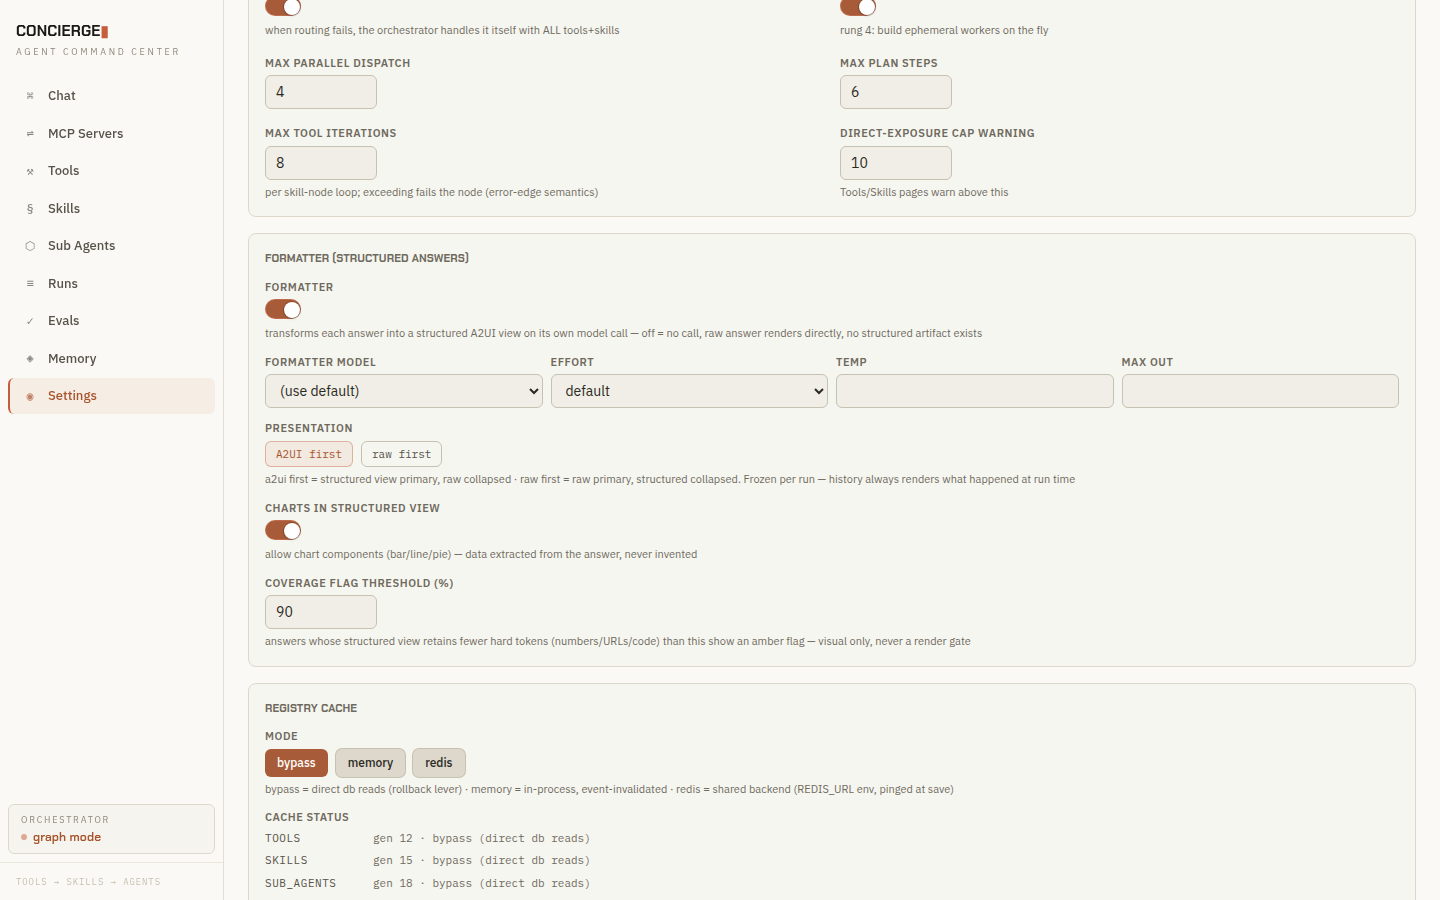
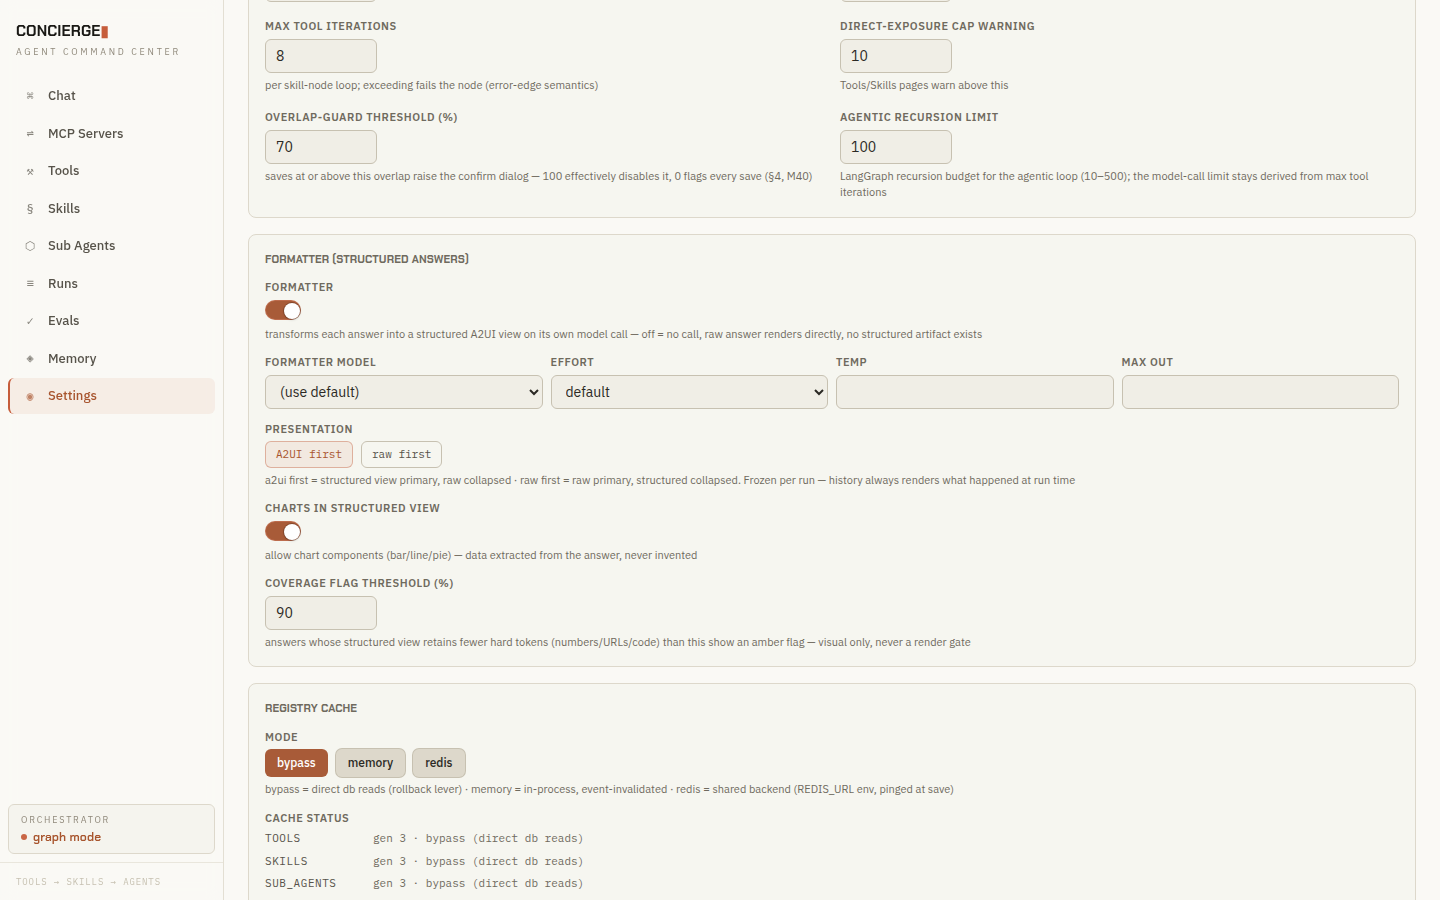
docs(acceptance): stage 28 — M40 config-hardening evidence (spec §14e-41..44)
Live on the rebuilt images, anthropic theme, qwen3.8-max all roles:
per-chat pin proven end-to-end (A direct / B graph / A direct+ctx in the
run list), Settings completeness with live nav toggling and the inline
422, the tick-bounded poll-interval throttle (parked across 2+ ticks at
interval 3600, settled next tick at 1), the overlap dialog at threshold
10, and the AUTH_ENABLED 429-boundary transcript (5→429 at burst 5, 8×200
at 120). Byte-identity: fresh boot shows every M40 key at its promoted
default. The settings frames whose visible region grew the new sections
were recaptured in place (changelog in report.md); the stage-26 frame
whose claim inverted is renamed 00-settings-ambient-section.png. README
status + M40 milestone row updated.

Claude-Session: https://claude.ai/code/session_01HZp9NtKPxvkd279oJnFx37

diff --git a/README.md b/README.md
@@ -4,7 +4,7 @@ A registry-driven, tri-layer agentic orchestration POC: **Tools → Skills → S
 
 **Goal**: plug an MCP server from the UI after startup, compose a skill from its tools, compose a sub agent from skills with a branching DAG workflow, and invoke it through chat with a visible run trace — without restarting the app. The complete definition of done is the 11-step acceptance script in [spec.md §14](./spec.md).
 
-> **Status: all milestones complete (M1–M39).** The core POC (M1–M6) plus the memory (M13–M18), ambient (M20–M25), completeness/hardening (M26–M35), and A2A (M37–M39) waves are done, and the **M36 full acceptance ceremony (spec §18.10) passed on a fresh `docker compose up`**: all eleven §14 steps, the §14c ambient UI + decision-plane additions, a live custom-gateway smoke, and the §11 byte-identity suites — evidence in [docs/acceptance/ceremony_m36/](./docs/acceptance/ceremony_m36/report.md). Backend + admin UI live; full backend suite **691 passed, 1 skipped**. Full manual-UI acceptance evidence — including the original single-pass Sonnet-5 campaign covering both orchestrator modes × thinking on/off, all four themes, HITL approve/deny/queue, failure/retry, and every admin surface — lives in [docs/acceptance/](./docs/acceptance/README.md). A fresh 1:1 parity re-run of that whole campaign on real `qwen3.8-max`, plus new full lifecycle sweeps of Memory (§16) and Ambient (§17/§18/§8.9), lives in [docs/acceptance/report-ambient.md](./docs/acceptance/report-ambient.md). The **A2A wave (M37–M39, spec §19)** — outbound remote-agent calls over the A2A protocol with card-driven auth, in-run HITL round-trips, untrusted-output fencing, and park→ambient-delivery for long-running remote tasks — is **complete**: 34 A2A tests green (full backend suite **724 passed, 1 skipped**) and the §14d steps 33–40 manual UI acceptance campaign passed live on real `qwen3.8-max` against five scripted counterparties — auth matrix (apiKey/bearer/oauth2 + env-indirection + unsupported-scheme), ExComm composition with fenced traces, HITL round-trips with counterparty-side cancel proofs, Stop propagation, park→leader-tick→Inbox delivery with zero recheck runs, and live card drift — evidence in [docs/acceptance/a2a-14d/](./docs/acceptance/a2a-14d/report.md) (the campaign also caught and fixed two GraphInterrupt-swallowing defects; design notes in [docs/research/a2a/](./docs/research/a2a/README.md)). On top of that, a **complete 1:1 re-run of the entire acceptance campaign** — all 27 base stages at exact frame parity with the ambient campaign, both feature sweeps, and the full A2A stage, ~230 frames in the **anthropic theme** on real `qwen3.8-max` — lives in [docs/acceptance/report.md](./docs/acceptance/report.md); it caught two more real defects (a third interrupt-swallowing site on the inline skill rung, and OpenAI dropping function-tool support for gpt-4o on chat/completions), both fixed on the branch with regression tests. `spec.md` is the single source of truth; implementation proceeded milestone by milestone via spec-driven development (see `CLAUDE.md`).
+> **Status: all milestones complete (M1–M40).** M40 (config hardening + per-chat target pin) landed on top of the campaigns below: the composer pin is now per-conversation state, seven previously hardcoded runtime constants are live validated settings (byte-identical defaults, full backend suite **735 passed, 1 skipped**), the Settings page gained Ambient/A2A/API-guardrail sections, and the §14e steps 41–44 acceptance stage passed live (`docs/acceptance/28-config-hardening/`) — catching and fixing two silent-failure UI defects along the way. The core POC (M1–M6) plus the memory (M13–M18), ambient (M20–M25), completeness/hardening (M26–M35), and A2A (M37–M39) waves are done, and the **M36 full acceptance ceremony (spec §18.10) passed on a fresh `docker compose up`**: all eleven §14 steps, the §14c ambient UI + decision-plane additions, a live custom-gateway smoke, and the §11 byte-identity suites — evidence in [docs/acceptance/ceremony_m36/](./docs/acceptance/ceremony_m36/report.md). Backend + admin UI live; full backend suite **691 passed, 1 skipped**. Full manual-UI acceptance evidence — including the original single-pass Sonnet-5 campaign covering both orchestrator modes × thinking on/off, all four themes, HITL approve/deny/queue, failure/retry, and every admin surface — lives in [docs/acceptance/](./docs/acceptance/README.md). A fresh 1:1 parity re-run of that whole campaign on real `qwen3.8-max`, plus new full lifecycle sweeps of Memory (§16) and Ambient (§17/§18/§8.9), lives in [docs/acceptance/report-ambient.md](./docs/acceptance/report-ambient.md). The **A2A wave (M37–M39, spec §19)** — outbound remote-agent calls over the A2A protocol with card-driven auth, in-run HITL round-trips, untrusted-output fencing, and park→ambient-delivery for long-running remote tasks — is **complete**: 34 A2A tests green (full backend suite **724 passed, 1 skipped**) and the §14d steps 33–40 manual UI acceptance campaign passed live on real `qwen3.8-max` against five scripted counterparties — auth matrix (apiKey/bearer/oauth2 + env-indirection + unsupported-scheme), ExComm composition with fenced traces, HITL round-trips with counterparty-side cancel proofs, Stop propagation, park→leader-tick→Inbox delivery with zero recheck runs, and live card drift — evidence in [docs/acceptance/a2a-14d/](./docs/acceptance/a2a-14d/report.md) (the campaign also caught and fixed two GraphInterrupt-swallowing defects; design notes in [docs/research/a2a/](./docs/research/a2a/README.md)). On top of that, a **complete 1:1 re-run of the entire acceptance campaign** — all 27 base stages at exact frame parity with the ambient campaign, both feature sweeps, and the full A2A stage, ~230 frames in the **anthropic theme** on real `qwen3.8-max` — lives in [docs/acceptance/report.md](./docs/acceptance/report.md); it caught two more real defects (a third interrupt-swallowing site on the inline skill rung, and OpenAI dropping function-tool support for gpt-4o on chat/completions), both fixed on the branch with regression tests. `spec.md` is the single source of truth; implementation proceeded milestone by milestone via spec-driven development (see `CLAUDE.md`).
 
 ## Architecture at a glance
 
@@ -134,6 +134,7 @@ The **[docs/ index](./docs/README.md)** covers the whole suite. Highlights:
 | M26 | Ambient completeness pack (spec §18.1: per-routine `model_ref` honored end-to-end — explicit role models > routine override > default, proven live with a kimi-k3 routine on a qwen stack; near-due poller tightening; escalation budget on digest approvals; per-item anticipation deliveries; learner threshold recovery; independent multi-slot digest shifting; judge `usage_metadata` accounting — judge_live battery: 7 calls, 3,880 in / 1,609 out tokens at Set-F1 1.0) | ✅ complete |
 | M27 | Memory context pack (spec §18.2: routine `include_memories` — fires share ONE persistent conversation, proven live: Beat #2 quantified the delta vs Beat #1 on qwen3.8-max; `project` memory scope with key-partitioned recall/injection that never leaks across projects; the aggregator gains the §16.3 remembered-context block) | ✅ complete |
 | M28 | Real trigger sources (spec §18.3: parameterized contracts `fn(watermark, config)` / `fn(config)→float`; native `http_json`/`rss`/`mcp_tool` poll sources + `workspace_disk_pct`/`pending_hitl_count`/`runs_failed_last_hour` probes, boot-registered with config shapes the watch compiler lists; `WatchCompile` gains `poll_config`/`probe_config`; §14c-29 proven live end-to-end — qwen compiled an `http_json` watch over a real feed conversationally, the poller ingested a real item, the fire produced a run + tier-2 delivery; live proof also caught+fixed a real decide bug: poll-item filters now match item fields) | ✅ complete |
+| M40 | Config hardening + per-chat target pin (spec §3.7/§7.5/§8.7: the composer's direct-invocation pin — and its history-summary checkbox — became per-conversation state (a conversation-keyed map; `?target=` deep links pin only the chat they open, new chats always start at auto); `a2a_poll_interval_s` wired as a tick-bounded monotonic watermark in the parked-task poller (effective cadence `max(tick, interval)`); seven hardcoded constants promoted to live validated settings with defaults equal to the constants they replaced — `ambient_tick_interval_s`, `rate_limit_burst`/`rate_limit_per_s`, `overlap_threshold_percent`, `run_stall_after_s`, `agentic_recursion_limit`, `a2a_http_timeout_s`, `a2a_fence_max_chars` — plus `AUTH_SESSION_TTL_H` env; the Settings page gained Ambient (§17), A2A (§19), and API-guardrail sections with live nav toggling and per-control inline 422s; §14e steps 41–44 proven live (evidence in `docs/acceptance/28-config-hardening/`) with the affected settings frames surgically recaptured; the campaign also fixed two silent-failure UI defects — per-control settings 422s that never surfaced, and the skill editor's §4 overlap check 422ing invisibly on an extra payload field) | ✅ complete |
 | M39 | A2A long-running tasks (spec §19.6: budget expiry PARKS the remote task instead of erroring — ambient on, under `a2a_max_parked` (0 disables parking, timeout becomes a plain tool error) — and the run completes honestly with a "result will be delivered ambiently" note; the ambient leader tick gains `poll_parked_tasks()` — rechecks each parked row via `tasks/get`, terminal outcomes deliver through the §17.5 outbox (`category='a2a'`, `skey=a2a:{row}` supersede lineage, tier 1 + urgency 4 for failures, tier 2 for results, fenced bodies) with **zero recheck runs ever**; a remote question while parked lands a tier-1 "needs your input" delivery pointing at the task drawer; the Remote Agents page gains that drawer — live task list with reply box for input-required (`POST .../tasks/{id}/reply`: terminal→outbox delivery, still-working→re-park, another question→stays in the drawer) and cancel (`POST .../tasks/{id}/cancel` propagates `tasks/cancel`); poller inert while a2a dark — 5 contract tests incl. park→poll→deliver with zero new runs and the parked-then-ask drawer round-trip) | ✅ complete |
 | M38 | A2A execution in runs (spec §19.5: `kind='a2a'` tools materialize as lazy call-time proxies — dark/dead backends are tool-call errors with error-edge semantics, never rebuild triggers; adopt-or-send replay idempotency keyed on `(run_id, call_key)` so HITL resume re-execution ADOPTS the open remote task instead of re-sending (§7.1 spin_worker contract); remote `input-required` raises the standard HITL interrupt with the question marked "untrusted, its own words" — deny cancels remotely, approve replies into the same remote task; every remote result and error body wrapped in the `<untrusted_remote_agent_output>` fence before entering any model context; run Stop propagates `tasks/cancel` best-effort via a detached cleanup task; `submitted/working` drains through a 1s `tasks/get` settle loop under the `a2a_task_timeout_s` budget — 6 contract tests through the REAL run machinery: echo round-trip with fence, HITL ask→approve and ask→deny, failed-terminal error edge honestly reported, Stop cancel propagation) | ✅ complete |
 | M37 | A2A substrate (spec §19.1–19.4: `remote_agents` registry as an MCP-server peer — register by card URL, the manager fetches `/.well-known/agent-card.json` via a2a-sdk 0.3, stores the card, projects per-card-skill `kind='a2a'` tools with MCP ingest semantics (refresh-in-place, inactive-on-vanish, collision-suffixed `tool_key`), periodic card refresh honoring `a2a_card_refresh_interval_s`; auth read off the card's `securitySchemes` at runtime — apiKey header/query/cookie, http basic/bearer, oauth2 client_credentials via authlib with a skew-aware token cache, placed by a standalone `ClientCallInterceptor`; credentials WRITE-ONLY in the DB with `env:VAR` indirection, never serialized outward, per-scheme `configured` flags + `auth_status` computed instead; dark by default — `a2a_enabled=false` means 409 writes, inert tools, byte-identical runs; Remote Agents admin page with card/skills/auth chips + write-only credential editor — 19 contract tests incl. the full auth placement matrix against a scripted SDK-server stub) | ✅ complete |

diff --git a/docs/acceptance/report.md b/docs/acceptance/report.md
@@ -9,9 +9,12 @@ images with the a2a-sdk/authlib dependencies, seeds from scratch.
 
 **Verdict: pass.** All 27 base stages at exact frame parity with the ambient
 campaign, both feature sweeps green, and the eight §14d A2A steps proven
-live. Two real product defects were found by this campaign and fixed on the
-branch with regression tests (details below) — exactly what a live re-run is
-for.
+live. **Stage 28 (M40 config hardening, §14e steps 41–44) was added on the
+`config_hardening` branch** — per-chat pin, settings completeness, wired-knob
+behavior, byte-identity — with the affected settings frames surgically
+recaptured in place. Four real product defects were found across these
+campaigns and fixed on their branches with regression tests (details below)
+— exactly what a live re-run is for.
 
 ## Layout
 
@@ -27,6 +30,7 @@ for.
 | `25` | Memory §16 lifecycle: quick-add, chat-taught fact + quarantined instruction, extraction, review, supersede, pin, cross-conversation recall, hard delete |
 | `26` | Ambient §17/§18 lifecycle: typed routine builder, real webhook fire, ledger chain + precision, watch compile (NL + typed), digest delivery to live SMTP/webhook sinks, feedback, evals page |
 | `27-a2a` | The A2A wave — below |
+| `28-config-hardening` | M40 (spec §14e steps 41–44) — below |
 
 ## Stage 27 — A2A (spec §14d steps 33–40)
 
@@ -53,6 +57,43 @@ design).
 | `32`–`33` | §14d-40 | Card drift: counterparty added `proofread` live; Refresh card projected the new `kind=a2a` tool |
 | `34`–`39` | §14d-35 | Auth matrix: apiKey resolved from **`env:STUB_A2A_KEY`** (auth ok chip + authenticated echo round-trip), oauth2 client_credentials (**exactly one token minted** at the stub's `/token`, then an authenticated echo round-trip), mutualTLS-only card → `auth-unsupported` chip; the call sends no credentials (nothing supported to place) and fails as a clean `401 Unauthorized` tool step, with the run completing and reporting it honestly |
 
+## Stage 28 — Config hardening (spec §14e steps 41–44, M40)
+
+Captured on the same fresh stack (rebuilt M40 images, qwen3.8-max all
+roles, anthropic theme), with the polyglot counterparty back on the
+bridge for the poll-interval proof.
+
+| Frames | Step | Proof |
+|---|---|---|
+| `00`–`06` | §14e-41 | **Per-chat pin**: research-concierge pinned in conversation A (badge + `mode='direct'` run); new conversation B opens at Orchestrator (auto) — machine-checked empty picker — and runs planner-routed (`graph`); back in A the pin **and** the history-summary checkbox are restored, and the next message runs direct with `+ctx`. The API run list closes the loop: A's runs `direct`, B's `graph` |
+| `07`–`14` | §14e-42 | **Settings completeness**: Ambient master toggled ON from the page → the Ambient nav entry appears live, every §17 knob + §18.4 channel routing renders; tick interval PATCHed to 45 and read back after reload; tick=5 → the **422 detail renders inline under the control**; A2A master ON → Remote Agents nav appears + all six §19 knobs (max-parked shows the "0 disables parking" hint); the always-visible API-guardrails pair; Orchestrator's new overlap-threshold + recursion-limit knobs |
+| `15`–`18` | §14e-43 | **Poll interval is tick-bounded**: tick 15s, task budget 2s, `a2a_poll_interval_s=3600` → a parked remote task stays parked across 40s (>2 ticks, machine-checked: no recheck, no delivery); PATCH the interval to 1 → the next tick settles it and the fenced result lands in the Inbox |
+| `19`–`20` | §14e-43 | **Overlap threshold is live**: at `overlap_threshold_percent=10`, a loose cousin of `web-research` ("web-brief-writer") raises the §4 dialog on save — judged 85%, threshold 10 shown in the dialog — cancelled, registry unchanged |
+| `21`–`22` | §14e-43 | **Rate-limit boundary moves**: guardrails section at burst 5; then with `AUTH_ENABLED=1`, the curl transcript shows 429 from request 5 of 8 at `burst=5/refill=1`, and 8×200 after PATCHing back to `120/10` |
+| — | §14e-44 | **Byte-identity at defaults**: fresh boot on the rebuilt images shows every M40 key at exactly the constant it replaced; the full backend suite (735 passed, 1 skipped) runs on those defaults untouched |
+
+### Frames replaced in place (M40 surgical refresh)
+
+The Settings page grew three sections (Ambient, A2A, API guardrails) and
+two Orchestrator knobs, so the archived frames whose visible region
+includes the changed area were recaptured on the M40 build — same claim,
+same settings state, same theme:
+
+- `01-settings-models/02-formatter-section-default-on.png`
+- `24-formatter/00-settings-on-a2ui-first.png`, `24-formatter/03-settings-off-options-hidden.png`
+- `23-ops-fixes/02-otlp-endpoint-set.png`, `23-ops-fixes/03-debug-selected-visible.png`
+  (the two paused `workspace-reporter` gates recreated live for fidelity)
+- `17-data-purge/00-purged-settings.png`
+- `25-memory/00-settings-memory-layers.png`
+- `26-ambient/00-settings-no-ambient-toggle.png` → **renamed**
+  `26-ambient/00-settings-ambient-section.png`: its claim inverted — the
+  ambient master switch (with every §17 knob) now lives on the Settings
+  page (spec §8.7, M40) instead of being API-only.
+
+Frames whose visible region is unaffected (e.g. `01-settings-models/00`,
+`01`, the stage-18 cache/retrieval frames) were left untouched; milestone
+archive directories are never retouched.
+
 ## Defects found by this campaign (fixed on the branch)
 
 1. **Inline skill loop swallowed GraphInterrupt** (`run_inline_skill`,
@@ -70,6 +111,19 @@ design).
    gpt-5.x entries ride the adapter's Responses-API path (explicit `effort`),
    but gpt-4o has no effort knob and no escape route. Caught when stage 20's
    planner leg 400'd. Commit `fix(llm): drop gpt-4o from the openai model list`.
+3. **Per-control settings 422s failed silently** (stage 28, §14e-42). Every
+   numeric/list/channel control on the Settings page runs its own
+   `usePatchSettings` mutation, so a rejected out-of-bounds write never
+   reached the page-level ErrorNote — the value just didn't stick. Each
+   control now renders its own inline ErrorNote.
+   Commit `fix(settings-ui): surface per-control PATCH errors inline`.
+4. **The §4 skill overlap guard was silently dead in the editor** (stage 28,
+   §14e-43). The editor's pre-save `check-overlap` payload included
+   `max_tool_iterations`, which `SkillOverlapCheck` rejects
+   (`extra_forbidden`); the advisory catch swallowed the 422 and every save
+   fell straight through — the duplicate dialog could never fire from the
+   skill editor. Payload now matches the schema.
+   Commit `fix(skills-ui): overlap-guard check sent a field its schema forbids`.
 
 ## Honest notes
 

diff --git a/docs/acceptance/README.md b/docs/acceptance/README.md
@@ -16,6 +16,7 @@ Start with **[report.md](./report.md)** — the latest campaign's full report
 |---|---|
 | `00-…` – `26-…` | The latest campaign: 27 base stages at exact 1:1 frame parity with the prior ambient campaign — fresh slate → registries → four HITL trials → fallback/deny/stop → ops/themes/purge → cache/providers → M8 features → formatter → memory sweep → ambient sweep |
 | `27-a2a/` | The A2A stage (spec §14d steps 33–40): dark gate, card registration, write-only credentials, tools projection, skill + ExComm authoring, organic routing with fenced traces, HITL approve/deny with counterparty-side cancel proofs, Stop propagation, park→leader-tick→Inbox, drawer reply, card drift, auth matrix |
+| `28-config-hardening/` | The M40 stage (spec §14e steps 41–44): per-conversation composer pin, Settings-page Ambient/A2A/API-guardrail sections with live nav toggling and inline 422s, tick-bounded poll-interval throttle proof, live overlap threshold, rate-limit 429-boundary transcript — plus the surgical in-place refresh of the settings frames the new sections changed (changelog in `report.md`) |
 | `report.md` | The latest campaign's report |
 | `a2a-14d/` | The first A2A acceptance campaign (39 frames + transcripts + its report) — the §14d steps proven immediately after M37–M39 landed |
 | `report-ambient.md` | The prior ambient campaign's report (its frames are superseded 1:1 by the stage dirs above) |
